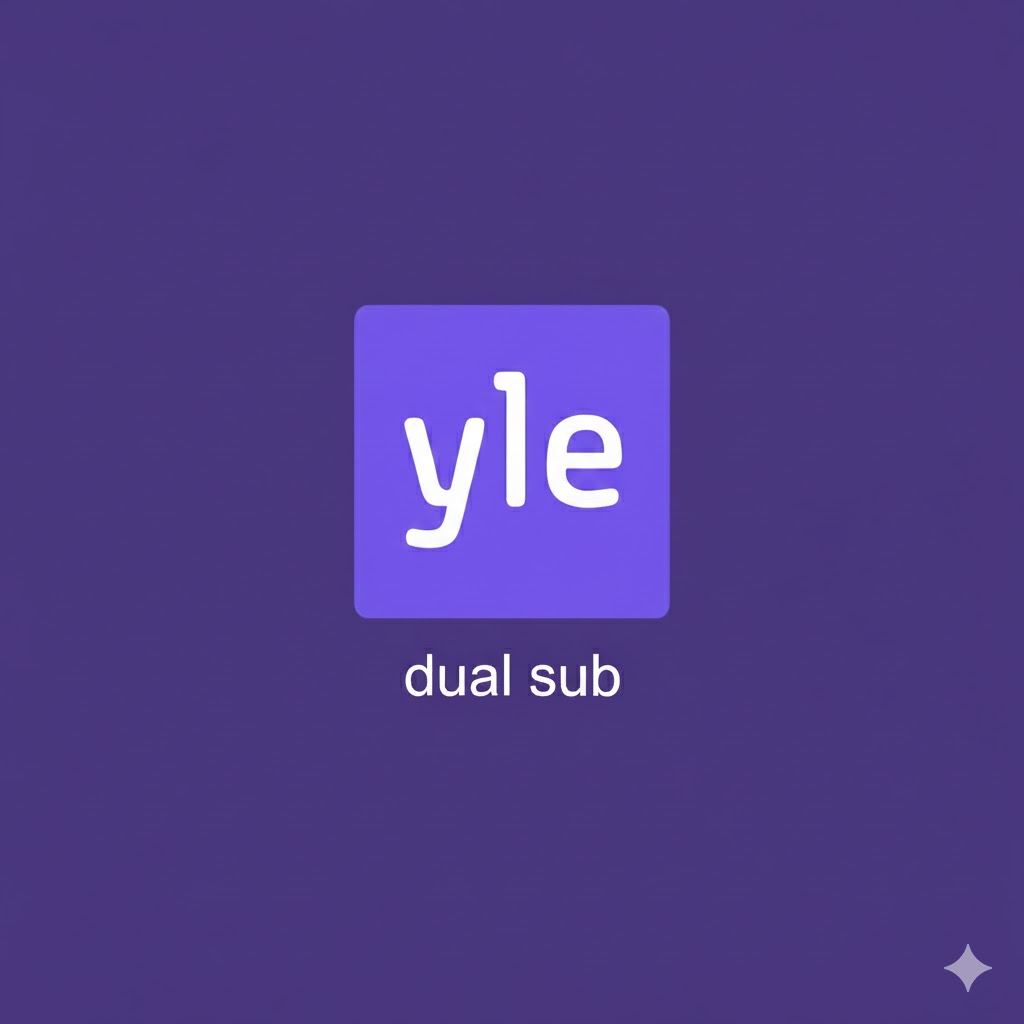
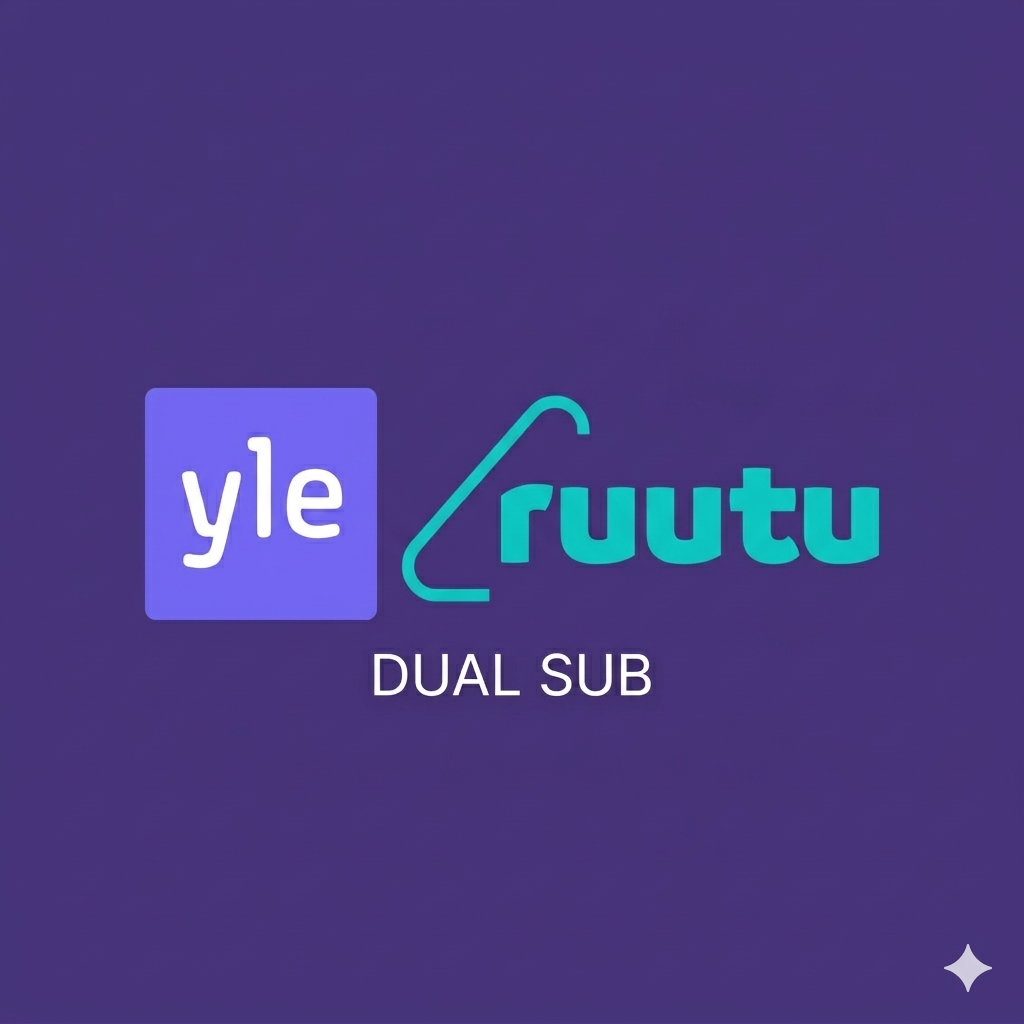
finalize ruutu integration refractor and cleanup

Changed region(s): [[0.125, 0.2812, 0.875, 0.6875], [0.9062, 0.9062, 0.9688, 0.9688]]

diff --git a/popup.html b/popup.html
@@ -106,6 +106,49 @@
       box-shadow: 0 4px 8px rgba(107, 114, 128, 0.4);
     }
 
+    .button-ghost {
+      background: transparent;
+      border: none;
+      box-shadow: none;
+      color: #9ca3af;
+      font-size: 14px;
+      flex-direction: column;
+      gap: 6px;
+      cursor: default;
+    }
+
+    .button-ghost:hover {
+      background: rgba(107, 114, 128, 0.1);
+      color: #d1d5db;
+    }
+
+    .button-ghost .bug-email {
+      font-size: 14px;
+      color: #9ca3af;
+      user-select: text;
+      cursor: text;
+      font-weight: 400;
+    }
+
+    .button-ghost .bug-links {
+      display: flex;
+      flex-direction: column;
+      gap: 16px;
+      font-size: 12px;
+      width: 100%;
+      margin-top: 10px;
+    }
+
+    .button-ghost .bug-links a {
+      color: #60a5fa;
+      text-decoration: none;
+      cursor: pointer;
+    }
+
+    .button-ghost .bug-links a:hover {
+      color: #93c5fd;
+    }
+
     .note a {
       color: #FF5E5B;
       text-decoration: none;
@@ -128,13 +171,26 @@
       text-align: center;
       font-style: italic;
     }
+
+    .platform-link {
+      color: #60a5fa;
+      text-decoration: none;
+      font-weight: 600;
+      border-bottom: 1px dashed #60a5fa;
+      transition: color 0.2s, border-color 0.2s;
+    }
+
+    .platform-link:hover {
+      color: #93c5fd;
+      border-bottom-color: #93c5fd;
+    }
   </style>
 </head>
 
 <body>
   <div class="container">
     <h1><span class="emoji">🇫🇮</span> Dual Sub <span class="emoji">📺</span></h1>
-    <div class="subtitle">Learn Finnish by watching YLE Areena & Ruutu with dual subtitles</div>
+    <div class="subtitle">Learn Finnish by watching <a href="https://areena.yle.fi" target="_blank" class="platform-link">YLE Areena</a> &amp; <a href="https://www.ruutu.fi" target="_blank" class="platform-link">Ruutu</a> with dual subtitles</div>
     <div class="description">
       Watch Finnish content with both Finnish and target language (English, Vietnamese) subtitles displayed
       simultaneously - the perfect tool for immersive language learning!
@@ -145,7 +201,7 @@
         <li>Finnish + Target language dual subtitles</li>
         <li>Powered by DeepL translation</li>
         <li>Rewind/forward buttons (3 seconds)</li>
-        <li>Works on YLE Areena & Ruutu</li>
+        <li>Works on <a href="https://areena.yle.fi" target="_blank" class="platform-link">YLE Areena</a> &amp; <a href="https://www.ruutu.fi" target="_blank" class="platform-link">Ruutu</a></li>
         <li>Free for basic usage, but requires one-time setup</li>
       </ul>
     </div>
@@ -158,6 +214,15 @@
         <span>⚙</span>
         <span>Settings</span>
       </a>
+    </div>
+    <div class="buttons">
+      <div class="button button-ghost">
+        <span>Report a Bug / Suggest Improvement</span>
+        <div class="bug-links">
+          <a href="https://github.com/anhtumai/yle-dual-sub/issues" target="_blank">🔗 GitHub Issues</a>
+          <span class="bug-email">✉ dualsub.finnishstreaming@gmail.com</span>
+        </div>
+      </div>
     </div>
     <div class="note">
       ⚡ First time? Click "Settings" to add your free DeepL translation key

diff --git a/contentscript_ruutu.js b/contentscript_ruutu.js
@@ -374,11 +374,12 @@ async function addExtensionToolset() {
         </svg>
         <div aria-hidden="true" class="dual-sub-extension-section_info_tooltip" style="left: -200px;">
           Do you know:<br />
-          We can increase/decrease subtitle size by Ctrl + / Ctrl - <br />
-          YLE supports changing subtitle styles from here
-          <svg width="20" height="20" fill="currentColor" viewBox="0 0 24 24" style="vertical-align: middle; margin-left: 4px;">
-            <path fill="currentColor" fill-rule="evenodd" d="M4 3a3 3 0 0 0-3 3v12a3 3 0 0 0 3 3h3.76a1 1 0 0 1 .65.24l1.638 1.404a3 3 0 0 0 3.904 0l1.637-1.403a1 1 0 0 1 .65-.241H20a3 3 0 0 0 3-3V6a3 3 0 0 0-3-3zM3 6a1 1 0 0 1 1-1h16a1 1 0 0 1 1 1v12a1 1 0 0 1-1 1h-3.76a3 3 0 0 0-1.952.722l-1.637 1.403a1 1 0 0 1-1.302 0l-1.636-1.403A3 3 0 0 0 7.76 19H4a1 1 0 0 1-1-1zm16 6a1 1 0 0 1-1 1h-7a1 1 0 1 1 0-2h7a1 1 0 0 1 1 1M8 12a1 1 0 0 1-1 1H6a1 1 0 1 1 0-2h1a1 1 0 0 1 1 1m-3 4a1 1 0 0 1 1-1h7a1 1 0 1 1 0 2H6a1 1 0 0 1-1-1m11 0a1 1 0 0 1 1-1h1a1 1 0 1 1 0 2h-1a1 1 0 0 1-1-1" clip-rule="evenodd"/>
+          Remember to enable Ruutu subtitle by selecting <br />
+          "Ohjelmatekstitys" from this icon <svg viewBox="0 0 48 48" xmlns="http://www.w3.org/2000/svg" width="20" height="20" style="display: inline-block; vertical-align: middle; margin-left: 4px;">
+            <path d="M40,8 L8,8 C5.8,8 4,9.8 4,12 L4,36 C4,38.2 5.8,40 8,40 L40,40 C42.2,40 44,38.2 44,36 L44,12 C44,9.8 42.2,8 40,8 Z M8,24 L16,24 L16,28 L8,28 Z M28,36 L8,36 L8,32 L28,32 Z M40,36 L32,36 L32,32 L40,32 Z M40,28 L20,28 L20,24 L40,24 Z" fill="currentColor"/>
           </svg>
+          <br />If subtitles aren't displaying, try toggling the switch<br />
+          We can increase/decrease subtitle size by Ctrl + / Ctrl - <br />
         </div>
       </button>
 
@@ -590,7 +591,7 @@ function setupTextTrackListeners(video) {
           const targetLanguageSubtitles = [];
           for (const finnishSubtitle of finnishSubtitles) {
             const displayedFinnishSubtitle = finnishSubtitle.replace(/\n/g, ' ').replace(/\s+/g, ' ').trim();
-            const translationKey = displayedFinnishSubtitle.toLocaleLowerCase();
+            const translationKey = displayedFinnishSubtitle.toLowerCase();
             const targetLanguageSubtitle =
               sharedTranslationMap.get(translationKey)
               || sharedTranslationErrorMap.get(translationKey)

diff --git a/landing-page/docusaurus.config.js b/landing-page/docusaurus.config.js
@@ -67,7 +67,7 @@ const config = {
         respectPrefersColorScheme: true,
       },
       navbar: {
-        title: 'YLE Areena Dual Sub Extension',
+        title: 'Finnish Streaming Dual Sub Extension',
         logo: {
           alt: 'Extension Logo',
           src: 'img/logo.png',
@@ -139,7 +139,7 @@ const config = {
             ],
           },
         ],
-        copyright: `Copyright © ${new Date().getFullYear()} YLE Areena Dual Subtitles.`,
+        copyright: `Copyright © ${new Date().getFullYear()} Finnish Streaming Dual Subtitles.`,
       },
       prism: {
         theme: prismThemes.github,

diff --git a/styles_ruutu.css b/styles_ruutu.css
@@ -175,6 +175,10 @@
   cursor: pointer;
 }
 
+.dual-sub-extension-section_info_tooltip {
+  z-index: 1001;
+}
+
 .dual-sub-extension-section
   button:hover
   .dual-sub-extension-section_rewind_tooltip,

diff --git a/landing-page/docs/guidance.md b/landing-page/docs/guidance.md
@@ -4,7 +4,7 @@ This page provides step-by-step instructions on how to set up and use the extens
 
 ## Installation
 
-1. Go to [YLE Areena & Ruutu Dual Sub on Chrome Extension Webstore](https://chromewebstore.google.com/detail/yle-areena-dual-subtitles/olmapcjpickcoabnjleheppoignffpdd)
+1. Go to [Learn Finnish: Dual Subtitles for Finnish Streaming on Chrome Extension Webstore](https://chromewebstore.google.com/detail/yle-areena-dual-subtitles/olmapcjpickcoabnjleheppoignffpdd)
 2. Click "Add to Chrome".
 3. Open Extension popup and click `Settings` button.
 
